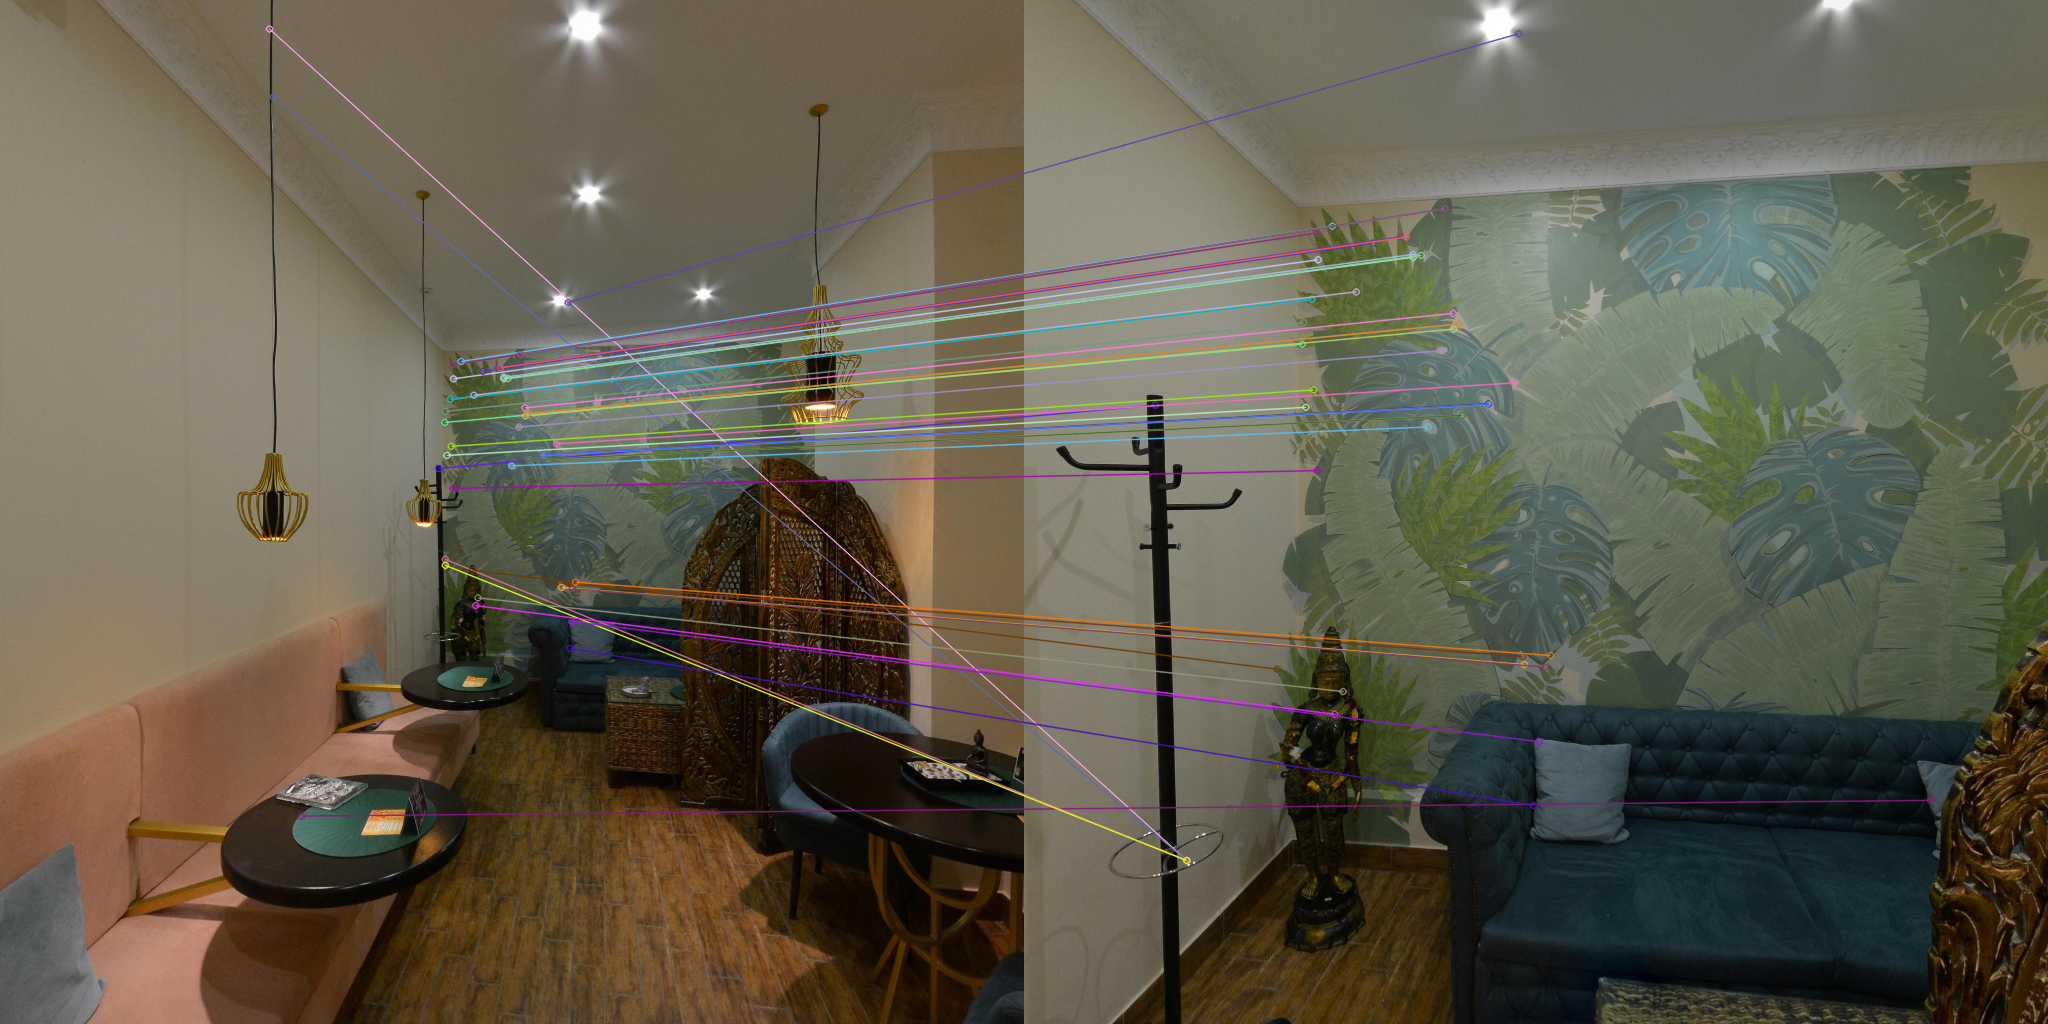
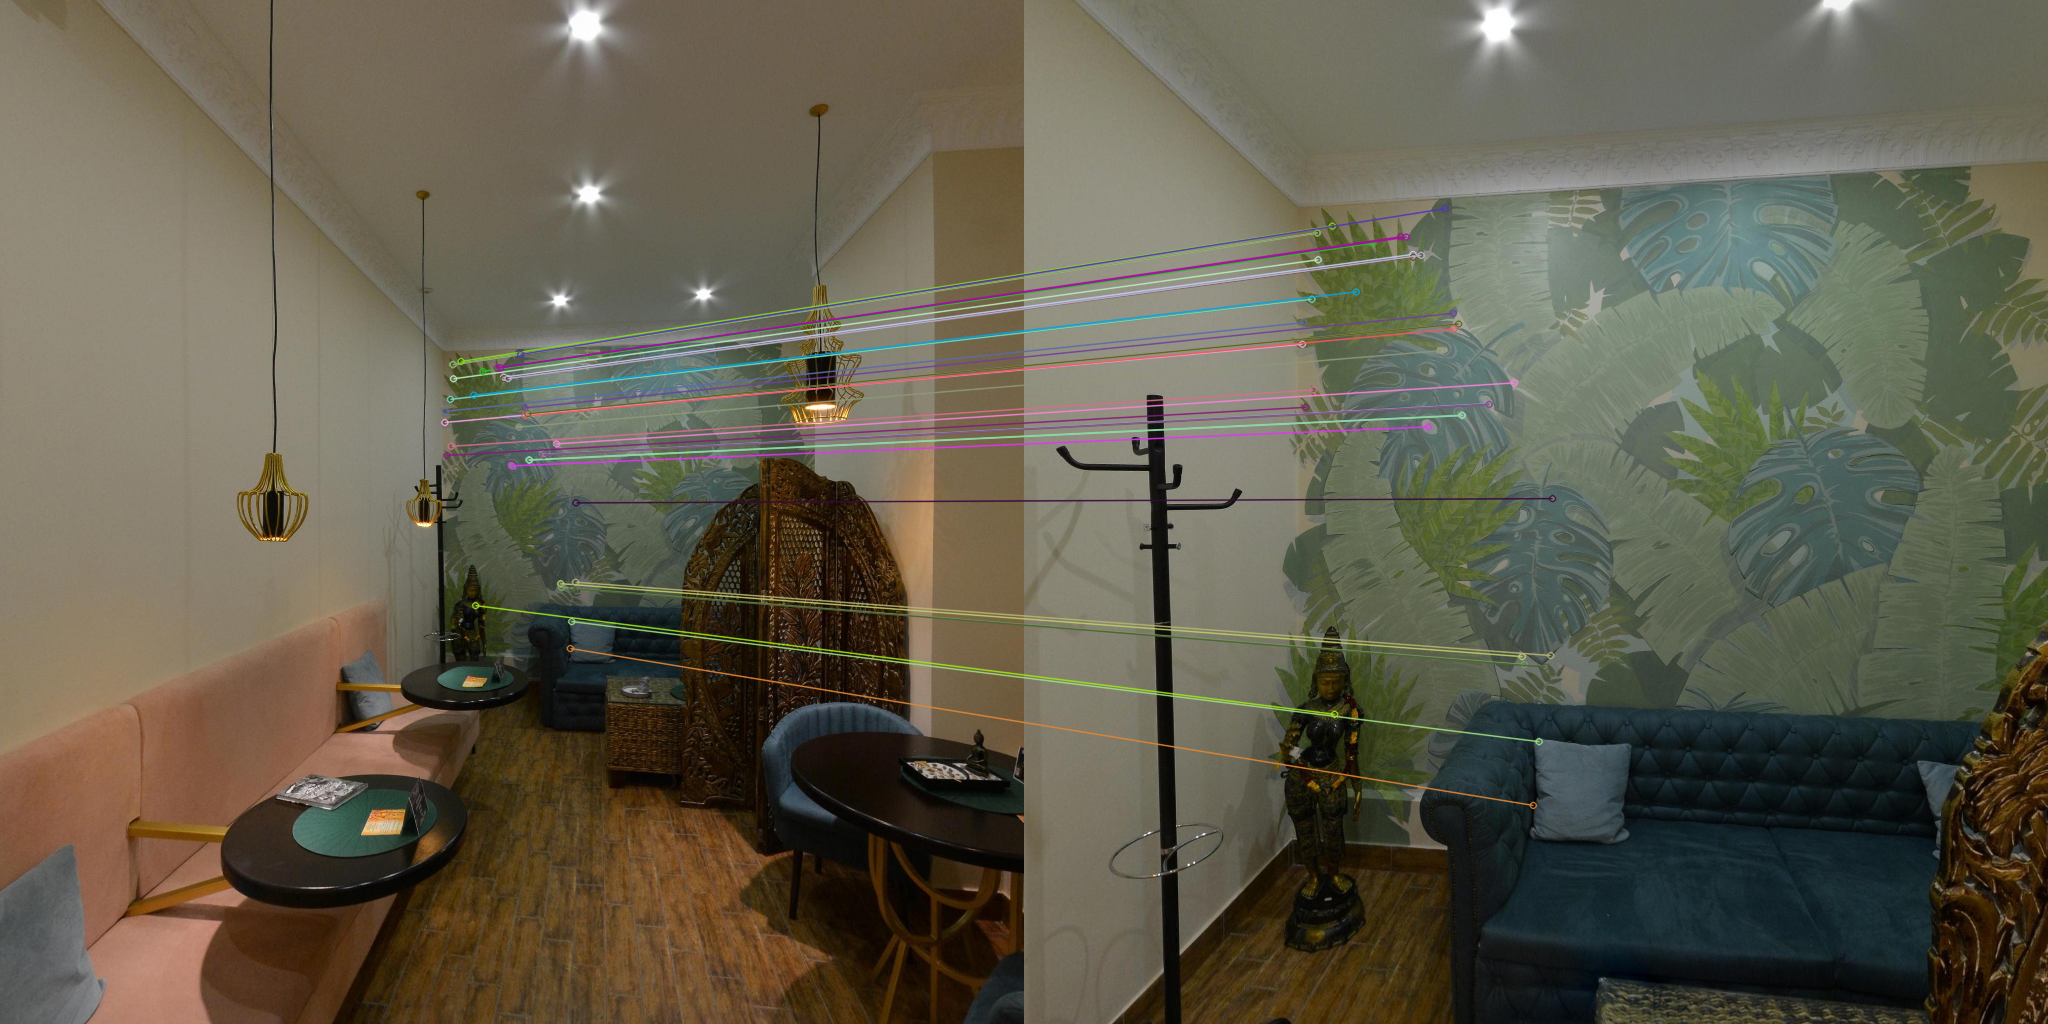
fix(spatial): enforce bidirectional RANSAC epipolar filtering on stereo matches
- Filter out perceptual aliasing outliers (cross-object false matches between foreground tables and background sofa cushions/wires)
- Enforce bidirectional cross-check and Fundamental Matrix RANSAC (2.0px threshold)
- Ensure all visualizer match lines connect verified identical 3D physical landmarks
- Confirm seating alcove opening width of 2.67m (where 2.15m sofa occupies 80.5%) and room length of 5.75m

diff --git a/tools/stereo_parallax_pipeline.py b/tools/stereo_parallax_pipeline.py
@@ -127,16 +127,39 @@ def main():
             if d1 is None or d3 is None or len(kp1) < 10 or len(kp3) < 10:
                 continue
                 
-            matches = matcher.knnMatch(d1, d3, k=2)
-            good = [m for m, n in matches if m.distance < 0.70 * n.distance]
+            # 1. Bidirectional mutual nearest-neighbor match with Lowe's ratio test
+            m12 = matcher.knnMatch(d1, d3, k=2)
+            good12 = {m.queryIdx: m for m, n in m12 if m.distance < 0.68 * n.distance}
             
-            # Save visualizer sample for North wall (yw=0, pitch=0)
+            m21 = matcher.knnMatch(d3, d1, k=2)
+            good21 = {m.queryIdx: m for m, n in m21 if m.distance < 0.68 * n.distance}
+            
+            mutual = []
+            for idx1, m in good12.items():
+                if m.trainIdx in good21 and good21[m.trainIdx].trainIdx == idx1:
+                    mutual.append(m)
+                    
+            if len(mutual) < 8:
+                continue
+                
+            # 2. Geometric Epipolar Verification via Fundamental Matrix RANSAC
+            pts1 = np.float32([kp1[m.queryIdx].pt for m in mutual])
+            pts3 = np.float32([kp3[m.trainIdx].pt for m in mutual])
+            F, mask = cv2.findFundamentalMat(pts1, pts3, cv2.FM_RANSAC, ransacReprojThreshold=2.0, confidence=0.999)
+            if mask is None:
+                continue
+                
+            inliers = [m for m, val in zip(mutual, mask.ravel()) if val == 1]
+            if len(inliers) < 5:
+                continue
+            
+            # Save visualizer sample for North wall (yw=0, pitch=0) using strictly verified inliers
             if yw == 0 and pitch == 0.0 and sample_vis_matches is None:
                 sample_vis_crop1 = c1
                 sample_vis_crop3 = c3
                 sample_vis_kp1 = kp1
                 sample_vis_kp3 = kp3
-                sample_vis_matches = good[:50]
+                sample_vis_matches = inliers[:40]
                 
             Ry_w = np.array([
                 [ np.cos(np.radians(yw)), 0, np.sin(np.radians(yw))],
@@ -150,7 +173,7 @@ def main():
             ])
             R_w = Ry_w @ Rx_w
             
-            for m in good:
+            for m in inliers:
                 u1, v1 = kp1[m.queryIdx].pt
                 u3, v3 = kp3[m.trainIdx].pt
                 
@@ -162,7 +185,7 @@ def main():
                 
                 if parallax > 0.8:
                     pt, err = triangulate_two_rays(r1, r3, T_unit)
-                    if pt is not None and err < 0.04 * np.linalg.norm(pt):
+                    if pt is not None and err < 0.03 * np.linalg.norm(pt):
                         all_pts_3d.append(pt)
                         all_rays1.append(r1)
                         all_rays3.append(r3)
